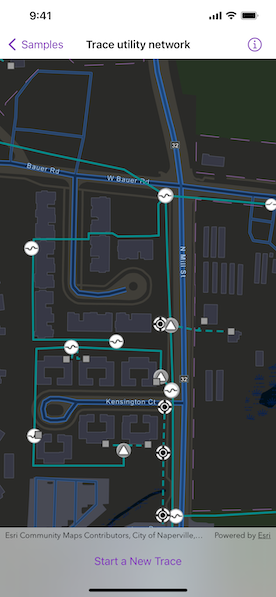
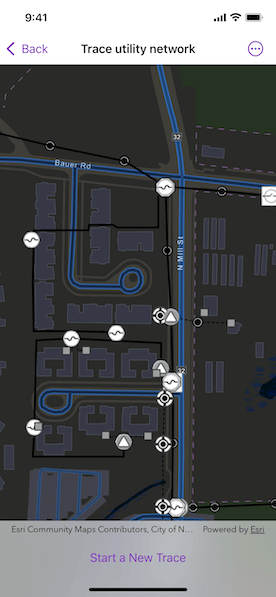
Update Trace utility network.

diff --git a/Shared/Samples/Trace utility network/TraceUtilityNetworkView.Model.swift b/Shared/Samples/Trace utility network/TraceUtilityNetworkView.Model.swift
@@ -26,21 +26,6 @@ extension TraceUtilityNetworkView {
             network.definition?.domainNetwork(named: "ElectricDistribution")
         }
         
-        /// The URLs of the relevant feature layers for this sample.
-        ///
-        /// The feature layers allow us to modify the visual rendering style of different elements in
-        /// the network.
-        ///
-        /// - Note: The electric distribution line feature layer (ID 3) is placed on the map first,
-        /// followed by the electric distribution device feature layer (ID 0) so that the junction
-        /// based features in the latter feature layer are easier to select.
-        private var featureLayerURLs: [URL] {
-            return [
-                .featureService.appendingPathComponent("3"),
-                .featureService.appendingPathComponent("0")
-            ]
-        }
-        
         /// The textual hint shown to the user.
         @Published var hint: String?
         
@@ -58,11 +43,7 @@ extension TraceUtilityNetworkView {
         
         /// The map contains the utility network and operational layers on which trace results will
         /// be selected.
-        let map = {
-            let map = Map(item: PortalItem.napervilleElectricalNetwork)
-            map.basemap = Basemap(style: .arcGISStreetsNight)
-            return map
-        }()
+        let map = Map(item: PortalItem.napervilleElectricNetwork())
         
         /// The utility tier for this sample.
         private var mediumVoltageRadial: UtilityTier? {
@@ -105,6 +86,17 @@ extension TraceUtilityNetworkView {
         }()
         
         // MARK: Methods
+        
+        init() {
+            // Updates the URL session challenge handler to use the
+            // specified credentials and tokens for any challenges.
+            ArcGISEnvironment.authenticationManager.arcGISAuthenticationChallengeHandler = ChallengeHandler()
+        }
+        
+        deinit {
+            // Resets the URL session challenge handler to use default handling.
+            ArcGISEnvironment.authenticationManager.arcGISAuthenticationChallengeHandler = nil
+        }
         
         /// Adds the provided utility element to the parameters of the pending trace and a corresponding
         /// starting location or barrier graphic to the map.
@@ -193,28 +185,11 @@ extension TraceUtilityNetworkView {
         /// Performs important tasks including adding credentials, loading and adding operational layers.
         func setup() async {
             do {
-                try await ArcGISEnvironment.authenticationManager.arcGISCredentialStore.add(.publicSample)
                 try await map.load()
                 try await network.load()
             } catch {
                 updateUserHint(withMessage: "An error occurred while loading the network.")
                 return
-            }
-            
-            // Clears all sublayers then add the layers relevant for the demo.
-            map.removeAllOperationalLayers()
-            
-            featureLayerURLs.forEach { url in
-                let table = ServiceFeatureTable(url: url)
-                let layer = FeatureLayer(featureTable: table)
-                if table.serviceLayerID == 3 {
-                    layer.renderer = UniqueValueRenderer(
-                        fieldNames: ["ASSETGROUP"],
-                        uniqueValues: [.lowVoltage, .mediumVoltage],
-                        defaultSymbol: SimpleLineSymbol()
-                    )
-                }
-                map.addOperationalLayer(layer)
             }
         }
         
@@ -270,27 +245,30 @@ extension TraceUtilityNetworkView {
     }
 }
 
-private extension ArcGISCredential {
-    /// The public credentials for the data in this sample.
-    /// - Note: Never hardcode login information in a production application. This is done solely
-    /// for the sake of the sample.
-    static var publicSample: ArcGISCredential {
-        get async throws {
-            try await TokenCredential.credential(
-                for: .samplePortal,
-                username: "viewer01",
-                password: "I68VGU^nMurF"
-            )
-        }
+private extension PortalItem {
+    /// A web map portal item for the Naperville Electric Map.
+    static func napervilleElectricNetwork() -> PortalItem {
+        PortalItem(
+            // Sample server 7 authentication required.
+            portal: Portal(
+                url: .samplePortal,
+                connection: .authenticated
+            ),
+            id: .init("be0e4637620a453584118107931f718b")!
+        )
     }
 }
 
-private extension PortalItem {
-    /// A portal item for the electrical network in this sample.
-    static var napervilleElectricalNetwork: PortalItem {
-        .init(
-            portal: .arcGISOnline(connection: .authenticated),
-            id: .init("471eb0bf37074b1fbb972b1da70fb310")!
+/// The authentication model used to handle challenges and credentials.
+private struct ChallengeHandler: ArcGISAuthenticationChallengeHandler {
+    func handleArcGISAuthenticationChallenge(
+        _ challenge: ArcGISAuthenticationChallenge
+    ) async throws -> ArcGISAuthenticationChallenge.Disposition {
+        // NOTE: Never hardcode login information in a production application.
+        // This is done solely for the sake of the sample.
+        return .continueWithCredential(
+            // Credentials for sample server 7 services.
+            try await TokenCredential.credential(for: challenge, username: "viewer01", password: "I68VGU^nMurF")
         )
     }
 }
@@ -307,42 +285,10 @@ private extension SimpleMarkerSymbol {
     }
 }
 
-private extension UniqueValue {
-    /// The rendering style for low voltage lines in the utility network.
-    static var lowVoltage: UniqueValue {
-        .init(
-            label: "Low voltage",
-            symbol: SimpleLineSymbol(style: .dash, color: .darkCyan, width: 3),
-            values: [3]
-        )
-    }
-    
-    /// The rendering style for medium voltage lines in the utility network.
-    static var mediumVoltage: UniqueValue {
-        .init(
-            label: "Medium voltage",
-            symbol: SimpleLineSymbol(style: .solid, color: .darkCyan, width: 3),
-            values: [5]
-        )
-    }
-}
-
-private extension UIColor {
-    /// A custom color for electrical lines in the utility network.
-    static var darkCyan: UIColor {
-        .init(red: 0, green: 0.55, blue: 0.55, alpha: 1)
-    }
-}
-
 private extension URL {
     /// The server containing the data for this sample.
     static var sampleServer7: URL {
         URL(string: "https://sampleserver7.arcgisonline.com")!
-    }
-    
-    /// The feature service containing the data for this sample.
-    static var featureService: URL {
[1 lines of base64/hex data omitted]
     }
     
     /// The portal containing the data for this sample.

diff --git a/Shared/Samples/Trace utility network/README.md b/Shared/Samples/Trace utility network/README.md
@@ -16,7 +16,7 @@ Tap "Start a new trace" to select the type of trace using the confirmation dialo
 
 1. Create a `MapView` with a `Map` that contains one more utility networks.
 2. Add a `GraphicsOverlay` to hold symbology that distinguishes starting locations from barriers.
-3. Add relevant `FeatureLayer`(s) to the map as operation layers, optionally applying custom styling.
+3. Get and load the first `UtilityNetwork` from the web map.
 4. Allow users to choose a trace type from the set of `UtilityTraceParameters.TraceType`(s).
 5. Create `UtilityTraceParameters` with the selected trace type.
 6. Set the `UtilityTraceConfiguration` with the utility tier's `defaultTraceConfiguration` property.
